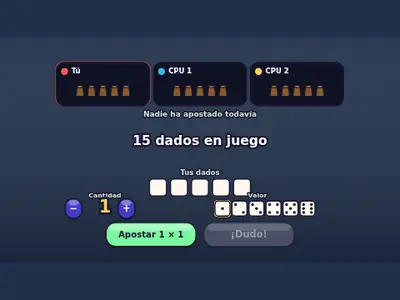
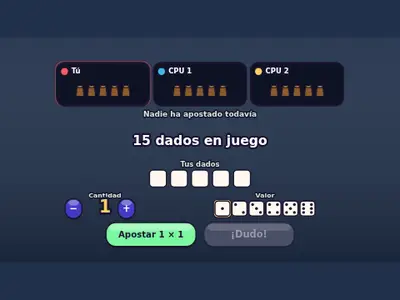
wip(oleada 3): punto de control
Claude-Session: https://claude.ai/code/session_01VHDh6Vs7ZGeo35RhV7AyRx

Changed region(s): [[0.36, 0.51, 0.69, 0.66]]

diff --git a/src/eng/farol.js b/src/eng/farol.js
@@ -246,7 +246,7 @@ if (typeof window !== 'undefined' && window.Kit && window.CFG) (() => {
       const me = k.party ? -1 : 0, mine = S.phase === 'bid' && (k.party ? hum(S.cur) : S.cur === 0);
       const by = H - (LAND ? 108 : 190);
       if (!k.party && S.phase !== 'over') {
-        const dw = Math.min(34, (W - 40) / 5 - 6), y = H - (LAND ? 150 : 240);
+        const dw = Math.min(34, (W - 40) / 5 - 6), y = H - (LAND ? 168 : 246);
         txt('Tus dados', W / 2, y - 28, 14, '#cfe8d8');
         S.dice[0].forEach((v, j) => die(W / 2 + (j - (S.dice[0].length - 1) / 2) * (dw + 8), y, dw, v));
       }
@@ -260,7 +260,7 @@ if (typeof window !== 'undefined' && window.Kit && window.CFG) (() => {
       txt(String(S.sel.q), qx, y, 34, '#ffd166');
       pill(qx + 26, y - 20, 34, 40, '#463ac4', '+', 24, '#fff'); hits.push({ x: qx + 26, y: y - 20, w: 34, h: 40, v: 'q+' });
       const fx = W / 2 + (LAND ? 30 : 10), fw = Math.min(30, (W / 2 - 40) / 6 - 4);
-      fit('Valor', fx + (fw + 4) * 2.5, y - 26, 13, '#cfe8d8', 'center', 110);
+      fit('Valor', fx + (fw + 4) * 2.5 + fw / 2, y - 26, 13, '#cfe8d8', 'center', 110);
       for (let f = 1; f <= 6; f++) {
         const x = fx + (f - 1) * (fw + 4);
         if (S.sel.f === f) { rr(x - 3, y - fw / 2 - 3, fw + 6, fw + 6, 8, '#ffd166', 2); }
@@ -368,10 +368,10 @@ if (typeof window !== 'undefined' && window.Kit && window.CFG) (() => {
       hits = [];
       if (k.party) { if (S.phase === 'pick') fit('Cada uno elige en su móvil', W / 2, H - 40, 17, '#cfe8d8', 'center', W - 40); return; }
       if (S.phase !== 'pick' || S.pick[0]) { if (S.pick[0] && S.phase === 'pick') fit('Ya has elegido. Esperando a los demás…', W / 2, H - 46, 16, '#cfe8d8', 'center', W - 40); return; }
-      const bw = Math.min(190, (W - 48) / 2), y = H - (LAND ? 66 : 110);
+      const bw = Math.min(190, (W - 48) / 2), y = H - (LAND ? 84 : 110);
       pill(W / 2 - bw - 8, y, bw, 52, '#7cf7a0', 'Compartir', 19); hits.push({ x: W / 2 - bw - 8, y, w: bw, h: 52, v: 'compartir' });
       pill(W / 2 + 8, y, bw, 52, '#ff5a5f', 'Robar', 19, '#fff'); hits.push({ x: W / 2 + 8, y, w: bw, h: 52, v: 'robar' });
-      fit('Nadie ve tu decisión hasta el recuento', W / 2, y + 70, 13.5, '#cfe8d8', 'center', W - 40);
+      fit('Nadie ve tu decisión hasta el recuento', W / 2, y + 68, 13.5, '#cfe8d8', 'center', W - 40);
     },
   };
 

diff --git a/wp-content/mu-plugins/arcade-core/games/_lib/farol.js b/wp-content/mu-plugins/arcade-core/games/_lib/farol.js
@@ -246,7 +246,7 @@ if (typeof window !== 'undefined' && window.Kit && window.CFG) (() => {
       const me = k.party ? -1 : 0, mine = S.phase === 'bid' && (k.party ? hum(S.cur) : S.cur === 0);
       const by = H - (LAND ? 108 : 190);
       if (!k.party && S.phase !== 'over') {
-        const dw = Math.min(34, (W - 40) / 5 - 6), y = H - (LAND ? 150 : 240);
+        const dw = Math.min(34, (W - 40) / 5 - 6), y = H - (LAND ? 168 : 246);
         txt('Tus dados', W / 2, y - 28, 14, '#cfe8d8');
         S.dice[0].forEach((v, j) => die(W / 2 + (j - (S.dice[0].length - 1) / 2) * (dw + 8), y, dw, v));
       }
@@ -260,7 +260,7 @@ if (typeof window !== 'undefined' && window.Kit && window.CFG) (() => {
       txt(String(S.sel.q), qx, y, 34, '#ffd166');
       pill(qx + 26, y - 20, 34, 40, '#463ac4', '+', 24, '#fff'); hits.push({ x: qx + 26, y: y - 20, w: 34, h: 40, v: 'q+' });
       const fx = W / 2 + (LAND ? 30 : 10), fw = Math.min(30, (W / 2 - 40) / 6 - 4);
-      fit('Valor', fx + (fw + 4) * 2.5, y - 26, 13, '#cfe8d8', 'center', 110);
+      fit('Valor', fx + (fw + 4) * 2.5 + fw / 2, y - 26, 13, '#cfe8d8', 'center', 110);
       for (let f = 1; f <= 6; f++) {
         const x = fx + (f - 1) * (fw + 4);
         if (S.sel.f === f) { rr(x - 3, y - fw / 2 - 3, fw + 6, fw + 6, 8, '#ffd166', 2); }
@@ -368,10 +368,10 @@ if (typeof window !== 'undefined' && window.Kit && window.CFG) (() => {
       hits = [];
       if (k.party) { if (S.phase === 'pick') fit('Cada uno elige en su móvil', W / 2, H - 40, 17, '#cfe8d8', 'center', W - 40); return; }
       if (S.phase !== 'pick' || S.pick[0]) { if (S.pick[0] && S.phase === 'pick') fit('Ya has elegido. Esperando a los demás…', W / 2, H - 46, 16, '#cfe8d8', 'center', W - 40); return; }
-      const bw = Math.min(190, (W - 48) / 2), y = H - (LAND ? 66 : 110);
+      const bw = Math.min(190, (W - 48) / 2), y = H - (LAND ? 84 : 110);
       pill(W / 2 - bw - 8, y, bw, 52, '#7cf7a0', 'Compartir', 19); hits.push({ x: W / 2 - bw - 8, y, w: bw, h: 52, v: 'compartir' });
       pill(W / 2 + 8, y, bw, 52, '#ff5a5f', 'Robar', 19, '#fff'); hits.push({ x: W / 2 + 8, y, w: bw, h: 52, v: 'robar' });
-      fit('Nadie ve tu decisión hasta el recuento', W / 2, y + 70, 13.5, '#cfe8d8', 'center', W - 40);
+      fit('Nadie ve tu decisión hasta el recuento', W / 2, y + 68, 13.5, '#cfe8d8', 'center', W - 40);
     },
   };
 

diff --git a/wp-content/mu-plugins/arcade-core/games/compartir-o-robar/index.html b/wp-content/mu-plugins/arcade-core/games/compartir-o-robar/index.html
@@ -1,3 +1,3 @@
 <!doctype html>
 <html lang="es"><head><meta charset="utf-8"><meta name="viewport" content="width=device-width, initial-scale=1, viewport-fit=cover"><title>Compartir o Robar</title></head>
-<body><script>window.CFG={"mode": "reparto", "help": "Cada ronda aparece un cofre con un montón de monedas y todos eligen en secreto en su móvil: Compartir o Robar. Si todos comparten, el cofre se reparte a partes iguales entre todos. Si algunos roban, los ladrones se reparten el cofre entero y los demás se quedan sin nada. Y si roban todos, el cofre se pierde y nadie gana. Se juegan seis rondas y el último cofre vale el doble. Gana quien acumule más monedas. Elige con la cruceta y confirma con A; si no eliges en 22 segundos, se cuenta como Compartir.", "title": "Compartir o Robar", "id": "compartir-o-robar", "pad": {"d": "8", "a": "Aceptar", "b": "Atrás", "t": 1}, "mp": [2, 4]};</script><script src="../_lib/kit.js?v=16"></script><script src="../_lib/art.js?v=9"></script><script src="../_lib/farol.js?v=b2d27e7b"></script></body></html>
+<body><script>window.CFG={"mode": "reparto", "help": "Cada ronda aparece un cofre con un montón de monedas y todos eligen en secreto en su móvil: Compartir o Robar. Si todos comparten, el cofre se reparte a partes iguales entre todos. Si algunos roban, los ladrones se reparten el cofre entero y los demás se quedan sin nada. Y si roban todos, el cofre se pierde y nadie gana. Se juegan seis rondas y el último cofre vale el doble. Gana quien acumule más monedas. Elige con la cruceta y confirma con A; si no eliges en 22 segundos, se cuenta como Compartir.", "title": "Compartir o Robar", "id": "compartir-o-robar", "pad": {"d": "8", "a": "Aceptar", "b": "Atrás", "t": 1}, "mp": [2, 4]};</script><script src="../_lib/kit.js?v=16"></script><script src="../_lib/art.js?v=9"></script><script src="../_lib/farol.js?v=b00b8cda"></script></body></html>

diff --git a/wp-content/mu-plugins/arcade-core/games/combinacion-oculta/index.html b/wp-content/mu-plugins/arcade-core/games/combinacion-oculta/index.html
@@ -1,3 +1,3 @@
 <!doctype html>
 <html lang="es"><head><meta charset="utf-8"><meta name="viewport" content="width=device-width, initial-scale=1, viewport-fit=cover"><title>Combinación Oculta</title></head>
-<body><script>window.CFG={"mode": "codigo", "help": "Hay una combinación secreta de cuatro fichas de color. Elige un color con ← → y colócalo con A; con B borras la última ficha. Al completar las cuatro se comprueba: una clavija negra por cada ficha del color correcto en la posición correcta, y una blanca por cada color correcto en posición equivocada (sin decirte cuál es cuál). Tienes diez intentos. En el modo de dos jugadores gana quien acierte antes su propia combinación; si nadie acierta, gana quien más clavijas negras haya sacado.", "title": "Combinación Oculta", "id": "combinacion-oculta", "pad": {"d": "8", "a": "Aceptar", "b": "Atrás", "t": 1}, "mp": [1, 2]};</script><script src="../_lib/kit.js?v=16"></script><script src="../_lib/art.js?v=9"></script><script src="../_lib/farol.js?v=b2d27e7b"></script></body></html>
+<body><script>window.CFG={"mode": "codigo", "help": "Hay una combinación secreta de cuatro fichas de color. Elige un color con ← → y colócalo con A; con B borras la última ficha. Al completar las cuatro se comprueba: una clavija negra por cada ficha del color correcto en la posición correcta, y una blanca por cada color correcto en posición equivocada (sin decirte cuál es cuál). Tienes diez intentos. En el modo de dos jugadores gana quien acierte antes su propia combinación; si nadie acierta, gana quien más clavijas negras haya sacado.", "title": "Combinación Oculta", "id": "combinacion-oculta", "pad": {"d": "8", "a": "Aceptar", "b": "Atrás", "t": 1}, "mp": [1, 2]};</script><script src="../_lib/kit.js?v=16"></script><script src="../_lib/art.js?v=9"></script><script src="../_lib/farol.js?v=b00b8cda"></script></body></html>

diff --git a/wp-content/mu-plugins/arcade-core/games/dados-mentirosos/index.html b/wp-content/mu-plugins/arcade-core/games/dados-mentirosos/index.html
@@ -1,3 +1,3 @@
 <!doctype html>
 <html lang="es"><head><meta charset="utf-8"><meta name="viewport" content="width=device-width, initial-scale=1, viewport-fit=cover"><title>Dados Mentirosos</title></head>
-<body><script>window.CFG={"mode": "dados", "help": "Cada uno ve sus dados solo en su móvil. Se apuesta por turnos cuántos dados hay en toda la mesa de un valor, y cada apuesta debe superar a la anterior (más cantidad, o igual cantidad con valor mayor). Sube con la cruceta y A, o grita ¡Dudo! con B. Si la apuesta no se cumple pierde un dado quien apostó; si se cumple, quien dudó. Sin dados, fuera. Sin apuestas de dinero.", "title": "Dados Mentirosos", "id": "dados-mentirosos", "pad": {"d": "8", "a": "Aceptar", "b": "Atrás", "t": 1}, "mp": [2, 4]};</script><script src="../_lib/kit.js?v=16"></script><script src="../_lib/art.js?v=9"></script><script src="../_lib/farol.js?v=b2d27e7b"></script></body></html>
+<body><script>window.CFG={"mode": "dados", "help": "Cada uno ve sus dados solo en su móvil. Se apuesta por turnos cuántos dados hay en toda la mesa de un valor, y cada apuesta debe superar a la anterior (más cantidad, o igual cantidad con valor mayor). Sube con la cruceta y A, o grita ¡Dudo! con B. Si la apuesta no se cumple pierde un dado quien apostó; si se cumple, quien dudó. Sin dados, fuera. Sin apuestas de dinero.", "title": "Dados Mentirosos", "id": "dados-mentirosos", "pad": {"d": "8", "a": "Aceptar", "b": "Atrás", "t": 1}, "mp": [2, 4]};</script><script src="../_lib/kit.js?v=16"></script><script src="../_lib/art.js?v=9"></script><script src="../_lib/farol.js?v=b00b8cda"></script></body></html>
